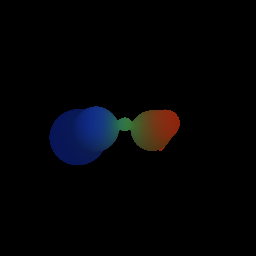
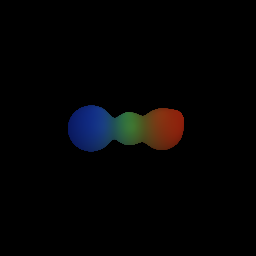
feat: 光源情報も一生に学習

Changed region(s): [[0.1875, 0.4062, 0.4375, 0.6562], [0.4375, 0.4375, 0.7188, 0.5938], [0.4062, 0.4062, 0.6875, 0.4688]]

diff --git a/src/bin/train.rs b/src/bin/train.rs
@@ -103,6 +103,8 @@ fn main() {
     let mut centers_vec = vec![0.0; current_n * 3];
     let mut colors_vec = vec![0.0; current_n * 3]; // Logit 0.0 (グレー)
     let mut radii_vec = vec![0.0; current_n]; // Softplus(-2.0) ≒ 0.12
+    let mut light_dir_vec: Vec<f32> = vec![-0.5, 0.5, -1.0];
+    let mut ambient_intensity_vec: Vec<f32> = vec![0.3];
 
     // 初期位置を少しだけ散らす
     for i in 0..current_n {
@@ -128,8 +130,17 @@ fn main() {
             .reshape([current_n, 3]);
         let init_radii = Tensor::<MyBackend, 1>::from_floats(radii_vec.as_slice(), &device)
             .reshape([current_n, 1]);
+        let init_light_dir = Tensor::<MyBackend, 1>::from_floats(light_dir_vec.as_slice(), &device);
+        let init_ambient_intensity =
+            Tensor::<MyBackend, 1>::from_floats(ambient_intensity_vec.as_slice(), &device);
 
-        let mut model = SceneModel::new(init_centers, init_colors, init_radii);
+        let mut model = SceneModel::new(
+            init_centers,
+            init_colors,
+            init_radii,
+            init_light_dir,
+            init_ambient_intensity,
+        );
 
         // ★重要: ステージごとにAdamを作り直す（古いテンソルサイズのモメンタムをリセットして爆発を防ぐ）
         let mut optim = AdamConfig::new()
@@ -197,6 +208,20 @@ fn main() {
             let final_colors: Vec<f32> =
                 colors_tensor.into_data().convert::<f32>().to_vec().unwrap();
             let final_radii: Vec<f32> = radii_tensor.into_data().convert::<f32>().to_vec().unwrap();
+            let final_light_dir: Vec<f32> = model
+                .light_dir
+                .val()
+                .into_data()
+                .convert::<f32>()
+                .to_vec()
+                .unwrap();
+            let final_ambient_intensity: Vec<f32> = model
+                .ambient_intensity
+                .val()
+                .into_data()
+                .convert::<f32>()
+                .to_vec()
+                .unwrap();
 
             // 2. JSONへの保存
             #[derive(serde::Serialize)]
@@ -205,6 +230,8 @@ fn main() {
                 centers: Vec<f32>,
                 colors: Vec<f32>,
                 radii: Vec<f32>,
+                light_dir: Vec<f32>,
+                ambient_intensity: Vec<f32>,
             }
 
             let data = SceneData {
@@ -212,6 +239,8 @@ fn main() {
                 centers: final_centers,
                 colors: final_colors,
                 radii: final_radii,
+                light_dir: final_light_dir,
+                ambient_intensity: final_ambient_intensity,
             };
 
             let file = std::fs::File::create("scene.json").expect("Failed to create file");
@@ -268,6 +297,20 @@ fn main() {
         centers_vec = next_centers;
         colors_vec = next_colors;
         radii_vec = next_radii;
+        light_dir_vec = model
+            .light_dir
+            .val()
+            .into_data()
+            .convert::<f32>()
+            .to_vec()
+            .unwrap();
+        ambient_intensity_vec = model
+            .ambient_intensity
+            .val()
+            .into_data()
+            .convert::<f32>()
+            .to_vec()
+            .unwrap();
         println!("  => Pruning & Splitting complete. Next N = {}", current_n);
     }
 }

diff --git a/src/renderer_diff.rs b/src/renderer_diff.rs
@@ -4,11 +4,13 @@ use burn::tensor::activation;
 use burn::tensor::activation::softmax;
 
 pub fn render_diff<B: Backend>(
-    ray_org: Tensor<B, 2>, // [N, 3]
-    ray_dir: Tensor<B, 2>, // [N, 3]
-    centers: Tensor<B, 2>, // [M, 3]
-    colors: Tensor<B, 2>,  // [M, 3]
-    radius: Tensor<B, 2>,  // [M, 1]
+    ray_org: Tensor<B, 2>,           // [N, 3]
+    ray_dir: Tensor<B, 2>,           // [N, 3]
+    centers: Tensor<B, 2>,           // [M, 3]
+    colors: Tensor<B, 2>,            // [M, 3]
+    radius: Tensor<B, 2>,            // [M, 1]
+    light_dir: Tensor<B, 1>,         // [3]
+    ambient_intensity: Tensor<B, 1>, // [1]
     smooth_k: f32,
 ) -> Tensor<B, 2> // [N, 3]
 {
@@ -43,20 +45,22 @@ pub fn render_diff<B: Backend>(
         smooth_k,
     );
 
-    let light_dir_vec: [f32; 3] = [-0.5, 0.5, -1.0];
-    // 正規化
-    let ld_len =
-        (light_dir_vec[0].powf(2.0) + light_dir_vec[1].powf(2.0) + light_dir_vec[2].powf(2.0))
-            .sqrt();
-    let light_dir_data = light_dir_vec.map(|x| x / ld_len);
+    let ld = light_dir;
+    let ld_sq = ld.clone().powf_scalar(2.0).sum();
+    let ld_norm = ld / ld_sq.sqrt();
 
-    // [1, 3] として作成 (ブロードキャスト用)
-    let light_dir = Tensor::<B, 1>::from_floats(light_dir_data, &device).unsqueeze_dim(0);
+    // 2. 法線との内積 (光の当たり具合: 0.0 ~ 1.0)
+    let dot = normal
+        .clone()
+        .matmul(ld_norm.unsqueeze_dim::<2>(1))
+        .squeeze_dim::<1>(1);
+    let diffuse = dot.clamp_min(0.0);
 
-    // normal: [N, 3], light_dir: [1, 3] -> [N, 3]
-    let diffuse = (normal * light_dir).sum_dim(1).clamp_min(0.0); // [N, 1]
+    // 3. 環境光と平行光源をブレンド
+    let ambient = activation::sigmoid(ambient_intensity); // 0.0 ~ 1.0に制限
+    let directional = diffuse.clone() * (1.0 - ambient.clone());
 
-    let lighting = diffuse + 0.1;
+    let lighting: Tensor<B, 1> = ambient + directional;
 
     // Step A: 全レイと全球の距離行列 [N, M] を計算
     let p_sq = p_final.clone().powf_scalar(2.0).sum_dim(1); // [N, 1]
@@ -78,7 +82,7 @@ pub fn render_diff<B: Backend>(
     let weighted_colors = colors_expanded * weights_expanded;
     let mixed_color = weighted_colors.sum_dim(1).squeeze_dim(1);
 
-    let object_color = mixed_color;
+    let object_color = mixed_color * lighting.unsqueeze_dim(1);
 
     let dist_scene = scene_sdf_value(p_final, centers, radius, smooth_k);
 

diff --git a/src/model/scene.rs b/src/model/scene.rs
@@ -11,14 +11,24 @@ pub struct SceneModel<B: Backend> {
     pub centers: Param<Tensor<B, 2>>, // [N, 3]
     pub colors: Param<Tensor<B, 2>>,  // [N, 3]
     pub radius: Param<Tensor<B, 2>>,  // [N, 1] 半径 (スカラだが扱いやすくするため2次元配列)
+    pub light_dir: Param<Tensor<B, 1>>,
+    pub ambient_intensity: Param<Tensor<B, 1>>,
 }
 
 impl<B: Backend> SceneModel<B> {
-    pub fn new(centers: Tensor<B, 2>, colors: Tensor<B, 2>, radius: Tensor<B, 2>) -> Self {
+    pub fn new(
+        centers: Tensor<B, 2>,
+        colors: Tensor<B, 2>,
+        radius: Tensor<B, 2>,
+        light_dir: Tensor<B, 1>,
+        ambient_intensity: Tensor<B, 1>,
+    ) -> Self {
         Self {
             centers: Param::from_tensor(centers),
             colors: Param::from_tensor(colors),
             radius: Param::from_tensor(radius),
+            light_dir: Param::from_tensor(light_dir),
+            ambient_intensity: Param::from_tensor(ambient_intensity),
         }
     }
 
@@ -31,6 +41,8 @@ impl<B: Backend> SceneModel<B> {
         let colors_rgb = activation::sigmoid(self.colors.val());
         let centers = self.centers.val();
         let radius_positive = activation::softplus(self.radius.val(), 1.0) + 0.01;
+        let light_dir = self.light_dir.val();
+        let ambient_intensity = self.ambient_intensity.val();
 
         render_diff(
             ray_org,
@@ -38,6 +50,8 @@ impl<B: Backend> SceneModel<B> {
             centers,
             colors_rgb,
             radius_positive,
+            light_dir,
+            ambient_intensity,
             smooth_k,
         )
     }

diff --git a/src/bin/viewer.rs b/src/bin/viewer.rs
@@ -18,6 +18,8 @@ struct SceneData {
     centers: Vec<f32>,
     colors: Vec<f32>,
     radii: Vec<f32>,
+    light_dir: Vec<f32>,
+    ambient_intensity: Vec<f32>,
 }
 
 #[repr(C)]
